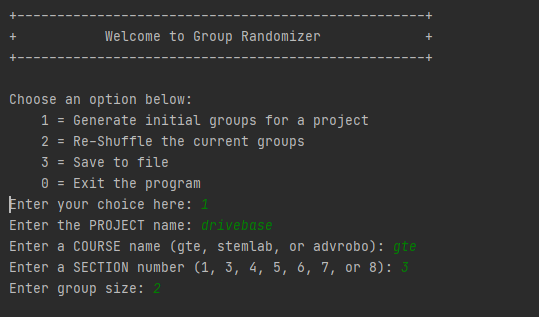
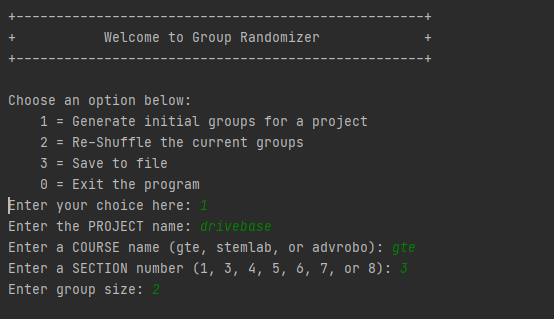
images added

diff --git a/src/GroupManager.java b/src/GroupManager.java
@@ -42,8 +42,12 @@ public class GroupManager {
         Collections.shuffle(studentsInCourse);
         System.out.println();
         output.add("\n");
-        System.out.println("**********************   Randomized Groups  *************************\n");
-        output.add("**********************   Randomized Groups  *************************" + "\n\n");
+        ConsoleUI.sendMessage("\n+---------------------------------------------------+");
+        ConsoleUI.sendMessage("\n+               Randomized Groups                   +");
+        ConsoleUI.sendMessage("\n+---------------------------------------------------+\n\n");
+        output.add("\n+---------------------------------------------------+");
+        output.add("\n+               Randomized Groups                   +");
+        output.add("\n+---------------------------------------------------+\n\n");
         System.out.println("Report generation: " + shuffled);
         output.add("Report generation: " + shuffled + "\n");
         System.out.println("Course: " + course);
